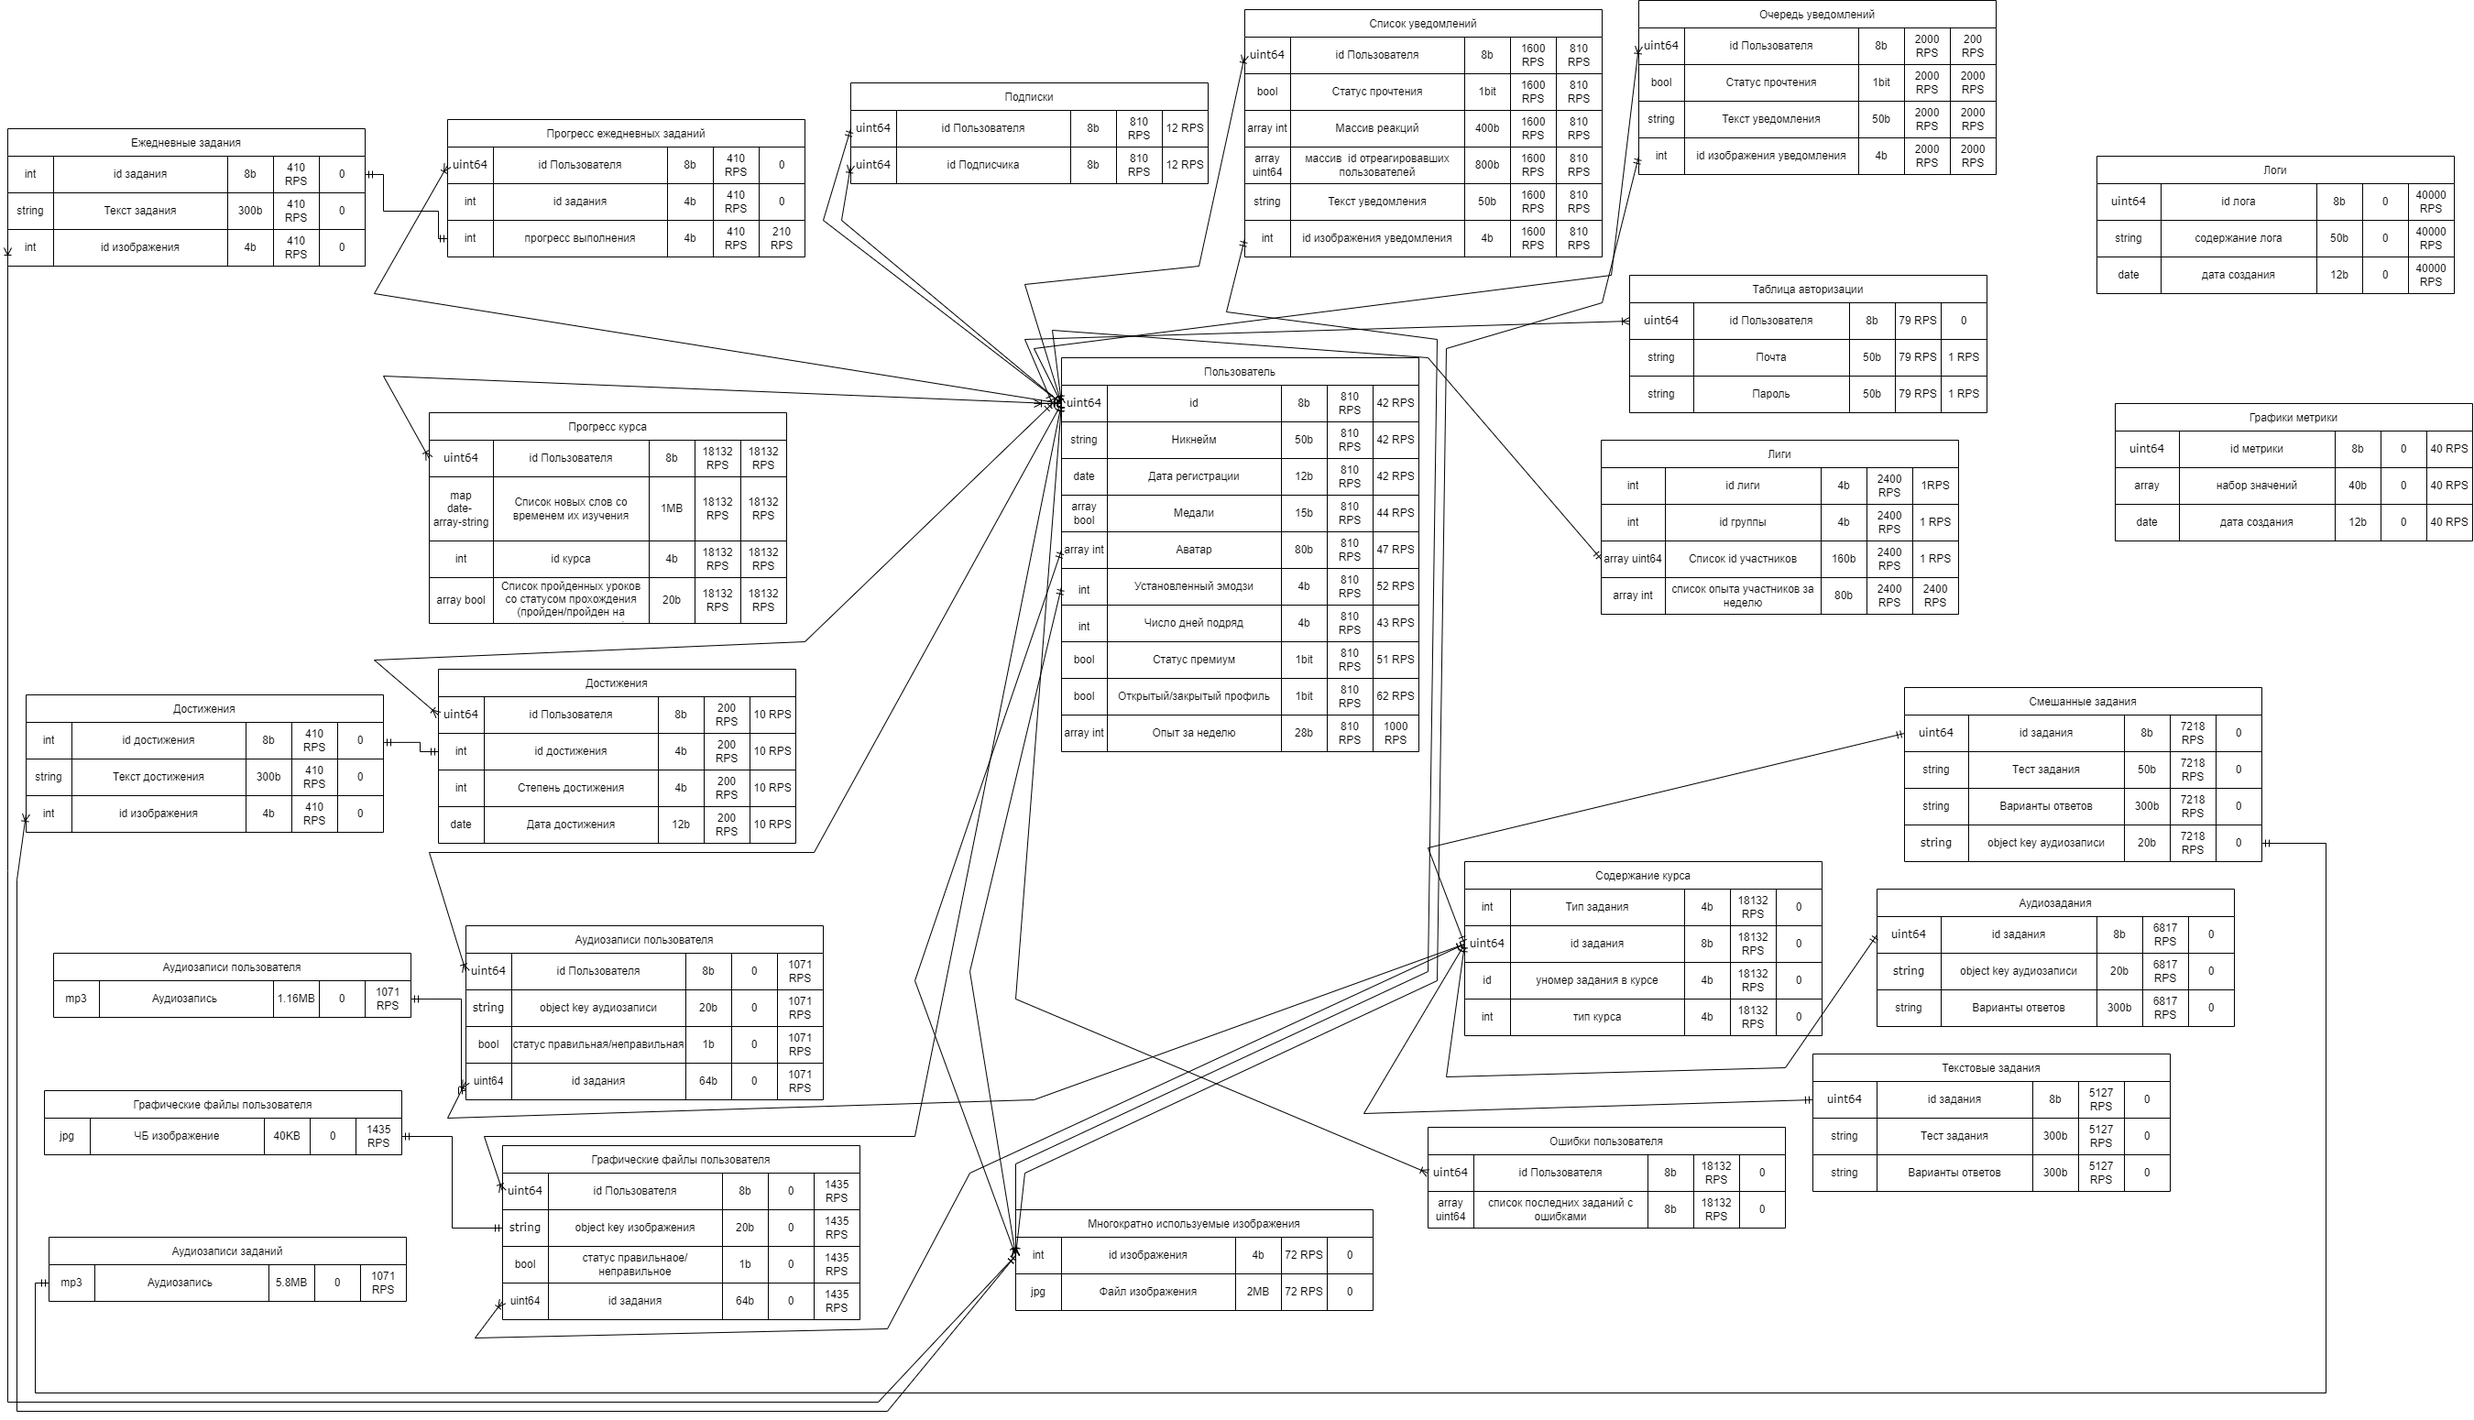
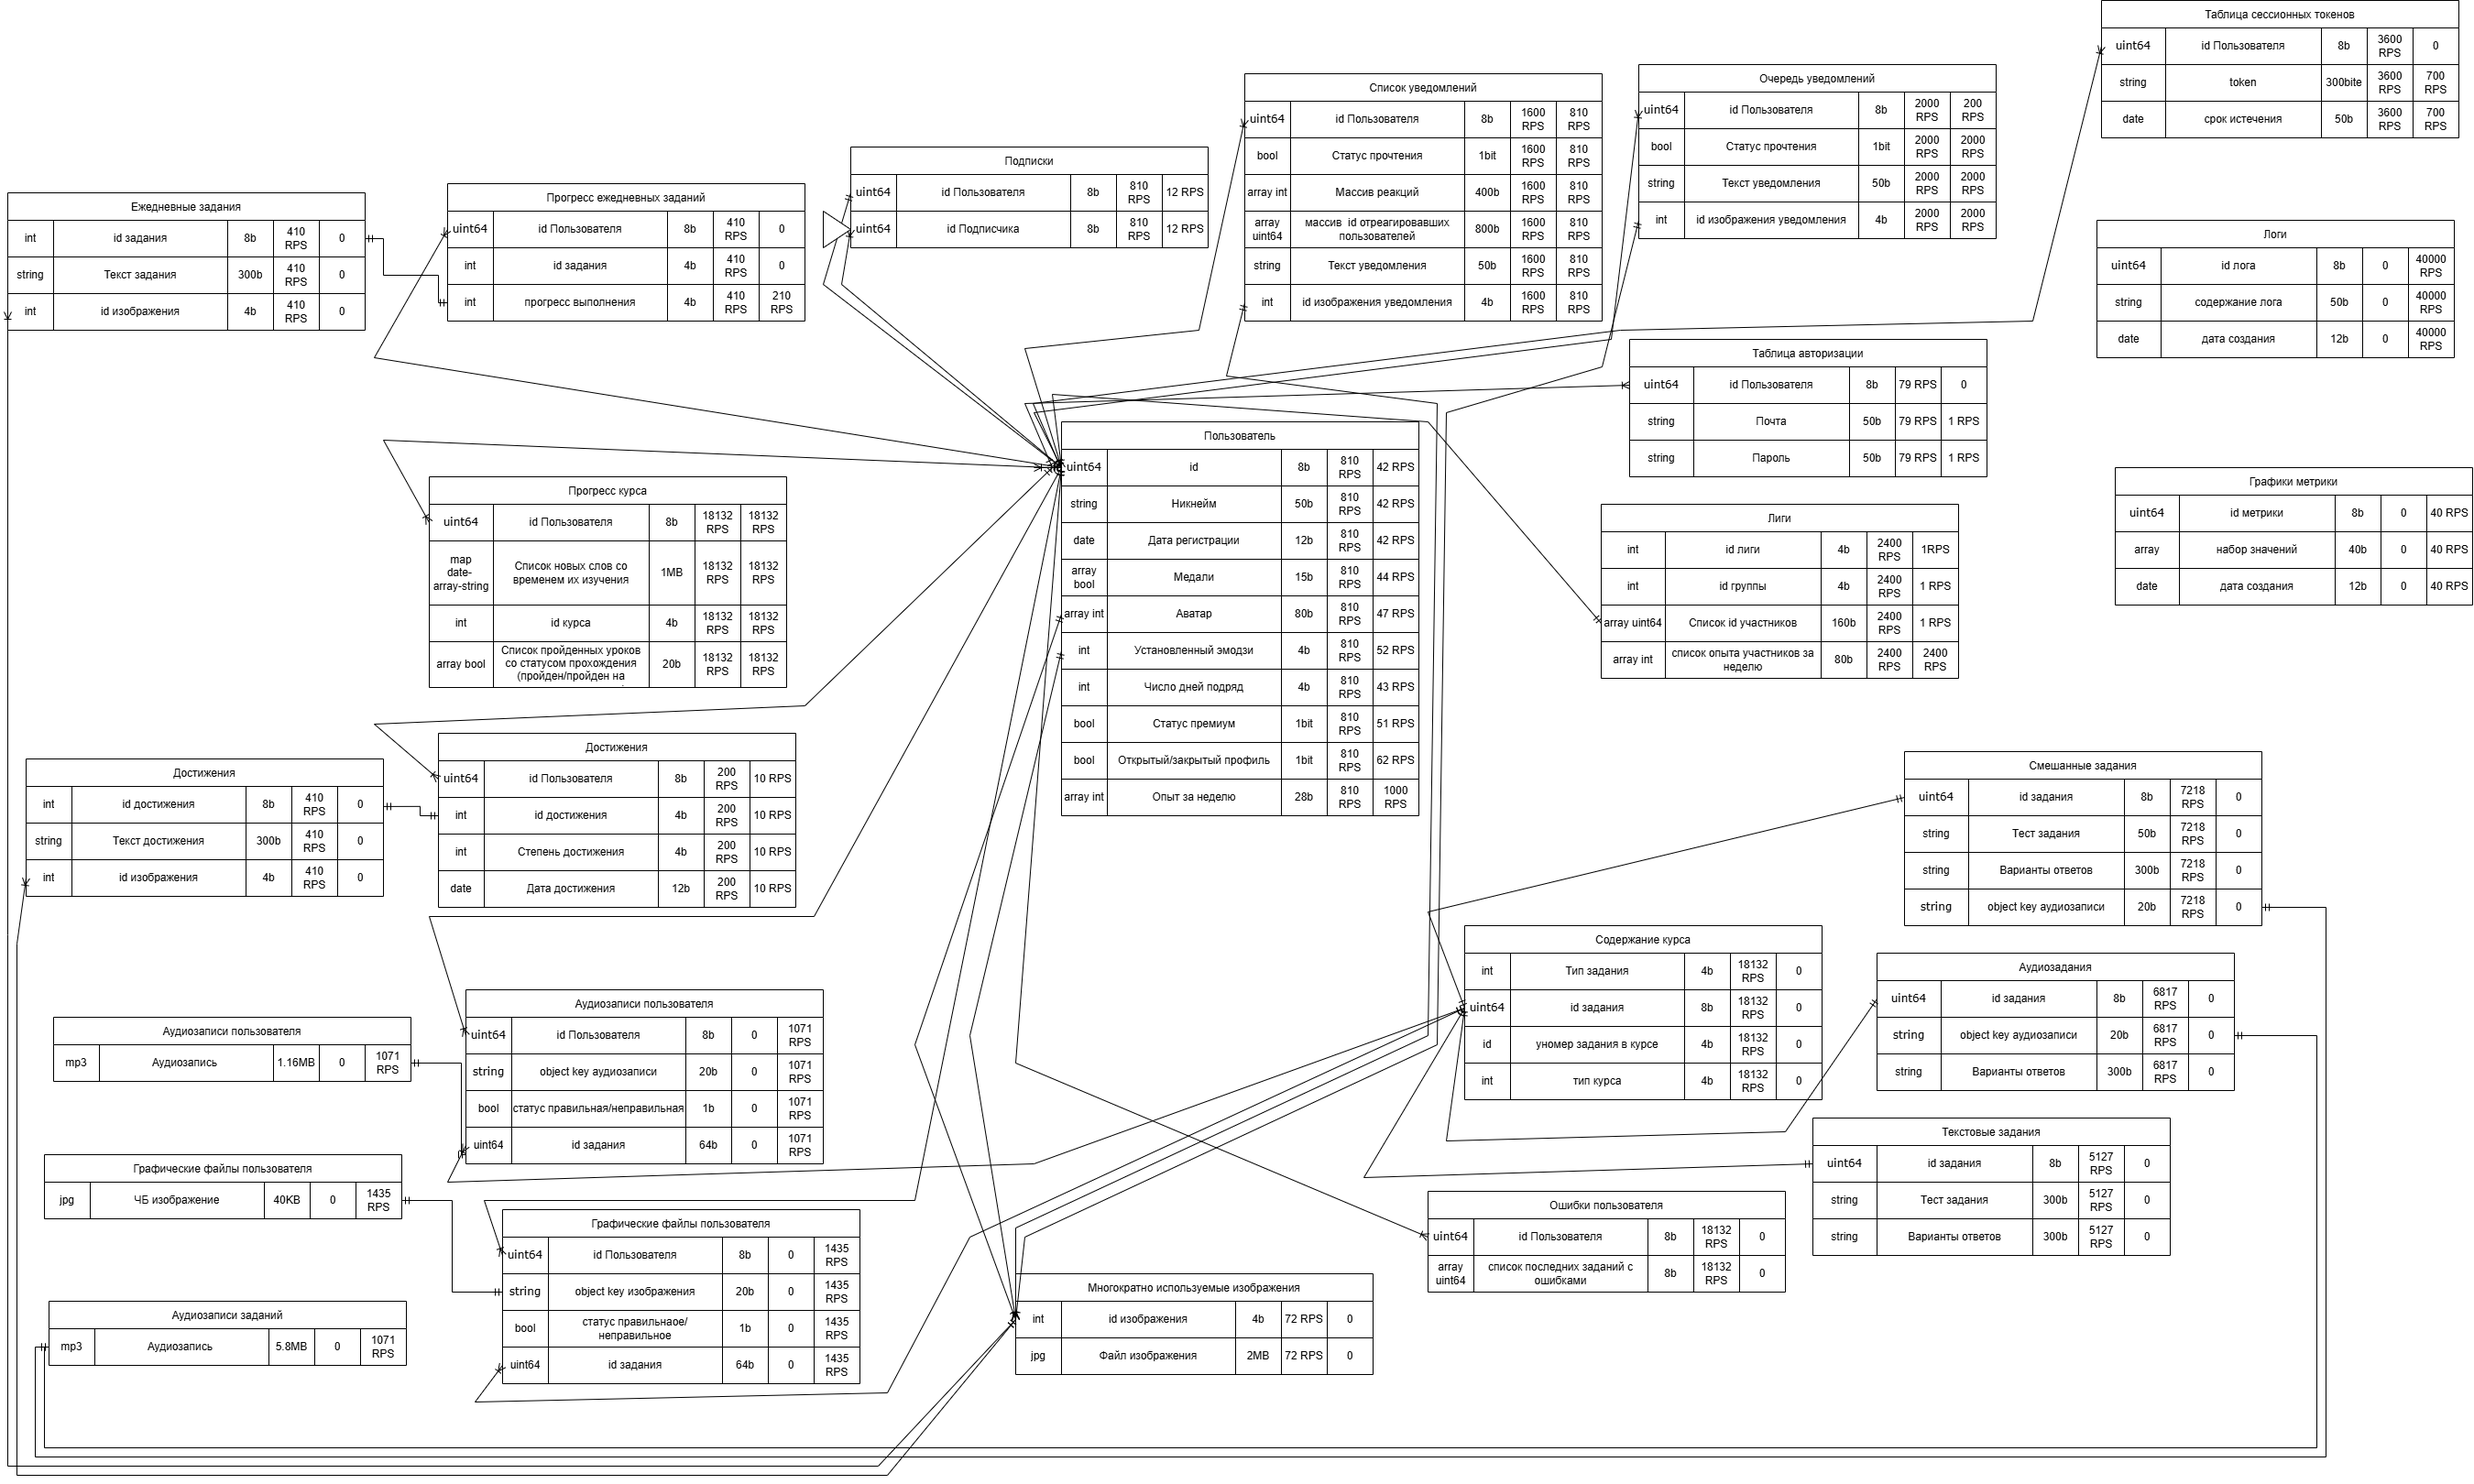
schemes + redis

diff --git a/README.md b/README.md
@@ -120,7 +120,7 @@ DAU = 31M, каждый пользователь в течении 9 мин вы
 Из этих данных рассчитаем Средний RPS, равномерно распределив запросы в течении дня, а потом посчитаем пиковый RPS из предположения что распределение согласно картинке выше и Максимальный RPS=4*RPS средний.
 Для того чтобы посчитать пиковое потребление в секунду домножим пиковый RPS на вес тела запроса и переведем в Гбит/с. Далее конвертируем его в суточный и переводим в Гбайт/сутки.
 При регистрации указываются только почта и пароль которые практически ничего не весят и ими можно пренебречь даже при большом RPS.
-Предположим повторную авторизацию раз в месяц и из этого её рассчитаем. На главную страницу пользователь попадает каждый раз когда заходит на сайт так, что он будет больше DAO (1.5 раза так как ещё при переключении между курсами и после лидерборда).
+Предположим повторную авторизацию раз в месяц и из этого её рассчитаем. На главную страницу пользователь попадает каждый раз когда заходит на сайт так, что он будет больше DAU (1.5 раза так как ещё при переключении между курсами и после лидерборда).
 Регистрацию рассчитаем из предположения о приросте как за последний год (+22М/360дней/24часа/60сек).
 
 | Действие пользователя              | Средний RPS | Пиковый RPS |Пиковое потребление в сутки Гбит/с|Суммарный суточный Гбайт/сутки|
@@ -255,6 +255,7 @@ Nginx держит постоянное соединение с бекендом
 **Графические метрики** - сбор метрик в виде графиков для мониторинга состояния сервиса.  
 **Логи** - логирование запросов выделено в отдельную таблицу, так как ее можно отдельно оптимизировать.  
 **Клиентское логирование** - логирование событий в которое происходит запись блоками из брокера событий.  
+**Таблица сессионных токенов** - таблица хранящая сессии пользователей, для нее отдельно удобно использовать redis.  
 **Брокер событий** - регистрирует все события собирает их в блоки и записывает в таблицу клиентское логирование.  
 
 ### **Логическая схема:**
@@ -582,12 +583,14 @@ MongoDB-клиенты используют пулы соединений для
 | Content Delivery Network | Резервирование серверов, геораспределённые POP-узлы, DNS балансировка, кэширование    | Резервные серверы - включаются при сбое основных<br>POP-узлы - ближние точки присутствия<br>DNS балансировка - распределение по IP<br>кэширование - отдача контента без запроса к источнику |
 | Общая структура | Сегментирование, резервирование    | Сегментирование API - разделяем и группируем простые и посещаемые; сложные но важные;прочие<br>Резервируем ресурсы - CPU, RAM, диски, ДЦ, у всего есть процент отказа на больших числах обыденная вещь |
 
-Несколько сценариев graceful degradation:
+Несколько сценариев **graceful degradation:**
 
 1. ML Individual Learning Curves - отдельный микросервис выполняющий трудоемкую работу на основе ML. ML модели часто меняются обновляются и откатываются, а небольшая задержка в повышении уровня языкового знания пользователя будет не очень критична, если со временем это исправится, исправлять планируется с помощью промежуточной базы данных, которая перезаправшивает все запросы при восстановлении работы ML Individual Learning Curves. Микросервис Lesson Collector при падении Individual Learning Curves будет брать данные об уровне пользователя сохранненые в БД.
 2. Mistakes - самостоятельный микросевис активно участвующий в каждом формировании урока, однако может отказать - но если в некоторых уроках не будет отработки ошибок пользователя это заденет гораздо меньше, чем если у него перестанут грузиться все уроки, поэтому при его падении Lesson Collector формирует полностью урок из новой информации не получив заданий на отработку ошибок из Mistakes.
 3. Notification Bandit - микросервис выполняющий сложеный ML анализ, однако если он откажет лучше обратиться к проверенным текстам уведомлений хранимых в отдельной БД чем не присылать уведомления вовсе, поэтому задействуется Graceful Degradation MongoDB в которое Notification Bandit пишет во время работы последний актуальные тексты уведомлений, а когда Notification Bandit падает из этой БД читают Notifications микросервисы.
 4. Images - важный микросервис формирующий актулальные интересные пользователям изображения, для того чтобы картинки всегда были в нашем приложении используется сценарий graceful degradation с помощью сценария с использованием микрсоервиса ALT Images. Так как изображения формируются на основе векторов содержащих комбинации большого базовых изображений, формируя их на основе пользовательской статистики, Images пока работает пишет эти вектора Graceful Degradation DB. А когда Images падает, на основе векторов из Graceful Degradation MongoDB микросервис ALT Images понимает последнюю тенденцию и разбавляет старые вектора новыми пусть и менее каченственными.
+
+**Синхронизация** происходит через промежуточные базы Kafka по принципу **outbox**
 
 ## 10. Схема проекта
 
